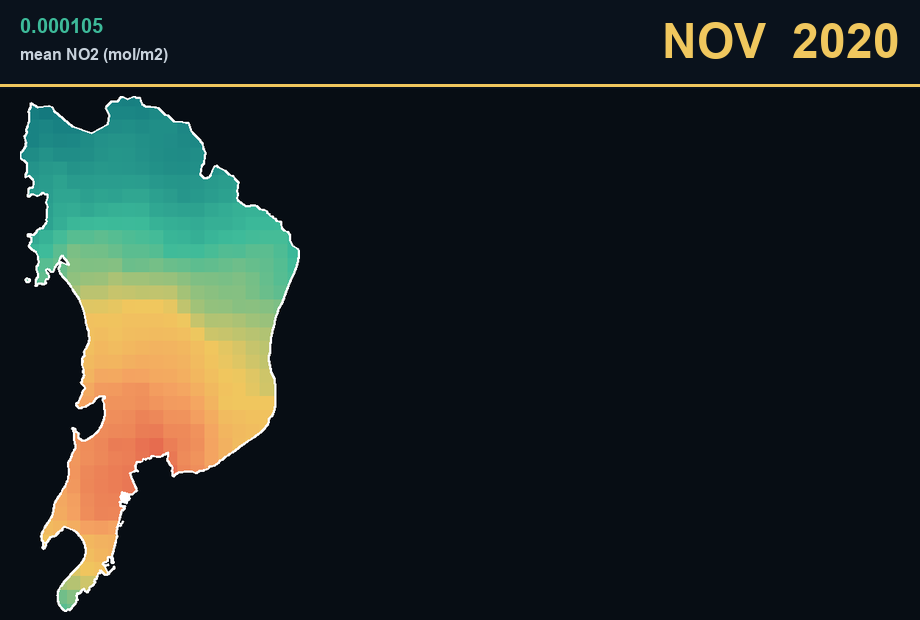
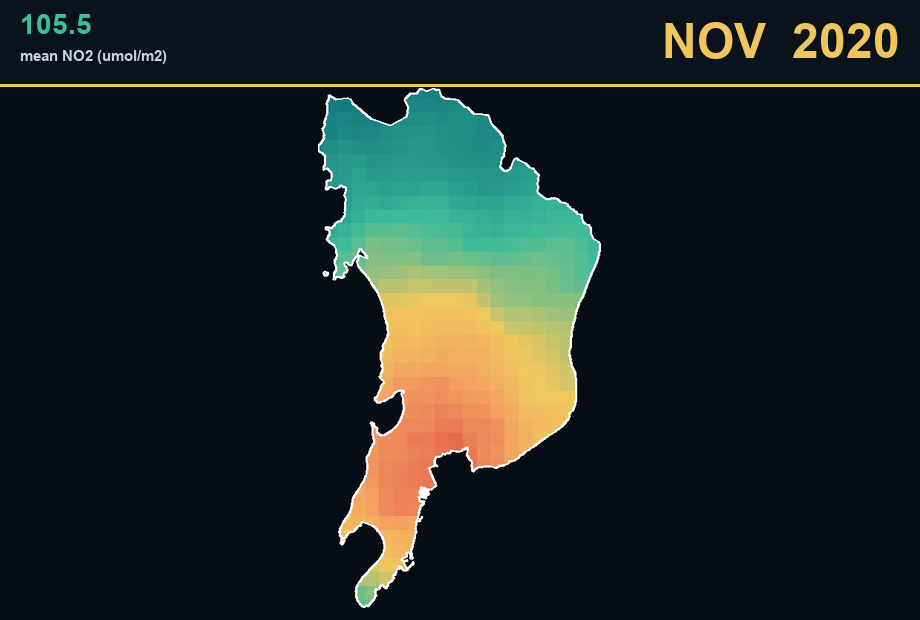
Center GIF map and show NO2 as readable umol/m2 on cards.

Changed region(s): [[0.0, 0.1226, 0.6696, 1.0], [0.0, 0.0, 0.1826, 0.1226]]

diff --git a/web/q2/index.html b/web/q2/index.html
@@ -551,12 +551,12 @@
       </p>
       <div class="stats">
         <div class="stat">
-          <strong id="stat-mean">0.000086</strong>
-          <span>city-wide mean NO₂ (mol/m²)</span>
+          <strong id="stat-mean">86.1</strong>
+          <span>city-wide mean NO₂ (µmol/m²)</span>
         </div>
         <div class="stat">
-          <strong id="stat-p75">0.000104</strong>
-          <span>highest-quartile threshold (P75)</span>
+          <strong id="stat-p75">104.2</strong>
+          <span>highest-quartile threshold P75 (µmol/m²)</span>
         </div>
         <div class="stat">
           <strong id="stat-pop65">7.32 lakh</strong>
@@ -579,7 +579,7 @@
           Coral marks the highest-NO₂ quartile (P75+). The white outline is the city boundary.
         </p>
         <div class="chips">
-          <span class="chip">Low → High NO₂ <span class="legend-bar"></span> <b>0–0.0002 mol/m²</b></span>
+          <span class="chip">Low → High NO₂ <span class="legend-bar"></span> <b>0–200 µmol/m²</b></span>
           <span class="chip hot"><i></i> Highest-NO₂ quartile (P75+)</span>
           <span class="chip line"><i></i> City boundary</span>
         </div>
@@ -590,8 +590,8 @@
             <div class="cap">
               <strong>Figure 1 · Annual mean tropospheric NO₂ (2020)</strong>
               <p>
-                Cloud-masked Sentinel-5P OFFL L3 column density (mol/m²).
-                Warmer colours = higher city-mean NO₂. White outline = Greater Mumbai ULB.
+                Cloud-masked Sentinel-5P OFFL L3 column density.
+                Shown in µmol/m² (1 µmol/m² = 0.000001 mol/m²). White outline = Greater Mumbai ULB.
               </p>
             </div>
           </article>
@@ -632,22 +632,22 @@
           <article>
             <h3>Winter</h3>
             <strong id="s-winter">—</strong>
-            <span>Dec–Feb mean</span>
+            <span>Dec–Feb mean (µmol/m²)</span>
           </article>
           <article>
             <h3>Pre-monsoon</h3>
             <strong id="s-pre">—</strong>
-            <span>Mar–May mean</span>
+            <span>Mar–May mean (µmol/m²)</span>
           </article>
           <article>
             <h3>Monsoon</h3>
             <strong id="s-mon">—</strong>
-            <span>Jun–Aug mean</span>
+            <span>Jun–Aug mean (µmol/m²)</span>
           </article>
           <article>
             <h3>Post-monsoon</h3>
             <strong id="s-post">—</strong>
-            <span>Sep–Nov mean</span>
+            <span>Sep–Nov mean (µmol/m²)</span>
           </article>
         </div>
 
@@ -663,14 +663,14 @@
         <div class="two">
           <article class="figure gif-frame">
             <img src="outputs/mumbai_2020_monthly_no2.gif" alt="Animated monthly NO2 maps for Greater Mumbai 2020">
-            <div class="cap">Figure 2 · Monthly GIF for 2020 (dynamic output). Fixed 0–0.0002 mol/m² scale.</div>
+            <div class="cap">Figure 2 · Monthly GIF for 2020 (dynamic output). Fixed 0–200 µmol/m² colour scale.</div>
           </article>
           <div>
             <div class="callout">
               <h3>Temporal result</h3>
               <p>
                 Means peak in December–February and fall from April through August.
-                December is highest (~0.000168 mol/m²); May is lowest (~0.000025 mol/m²).
+                December is highest (~168 µmol/m²); May is lowest (~25 µmol/m²).
               </p>
             </div>
             <div class="callout" style="margin-top:10px">
@@ -719,8 +719,8 @@
               <tr><th>Exposure summary</th><th>Value</th></tr>
             </thead>
             <tbody id="summary-table">
-              <tr><td>City-wide mean tropospheric NO₂</td><td>0.000086 mol/m²</td></tr>
-              <tr><td>Highest-quartile threshold (P75)</td><td>0.000104 mol/m²</td></tr>
+              <tr><td>City-wide mean tropospheric NO₂</td><td>86.1 µmol/m²</td></tr>
+              <tr><td>Highest-quartile threshold (P75)</td><td>104.2 µmol/m²</td></tr>
               <tr><td>Residents aged 65+ (city total)</td><td>7,31,666</td></tr>
               <tr><td>Residents aged 65+ in highest-NO₂ quartile</td><td>2,38,328</td></tr>
               <tr><td>Share of 65+ in highest-NO₂ quartile</td><td>32.57%</td></tr>
@@ -729,7 +729,7 @@
 
           <table>
             <thead>
-              <tr><th>Month</th><th>Mean NO₂</th><th>vs annual</th></tr>
+              <tr><th>Month</th><th>Mean NO₂ (µmol/m²)</th><th>vs annual</th></tr>
             </thead>
             <tbody id="month-table"></tbody>
           </table>
@@ -846,24 +846,26 @@
     const pre = avg([2, 3, 4]);
     const mon = avg([5, 6, 7]);
     const post = avg([8, 9, 10]);
-    const fmt = (v) => Number(v).toFixed(6);
+    // Show NO2 as µmol/m² so values are easy to read (×1,000,000 from mol/m²)
+    const toUmol = (v) => Number(v) * 1e6;
+    const fmtUmol = (v) => toUmol(v).toFixed(1);
 
-    document.getElementById("s-winter").textContent = fmt(winter);
-    document.getElementById("s-pre").textContent = fmt(pre);
-    document.getElementById("s-mon").textContent = fmt(mon);
-    document.getElementById("s-post").textContent = fmt(post);
+    document.getElementById("s-winter").textContent = fmtUmol(winter);
+    document.getElementById("s-pre").textContent = fmtUmol(pre);
+    document.getElementById("s-mon").textContent = fmtUmol(mon);
+    document.getElementById("s-post").textContent = fmtUmol(post);
 
     const dec = monthly[11][1];
     const may = monthly[4][1];
     document.getElementById("compare-line").innerHTML =
-      `December mean NO₂ is about <b>${(dec / may).toFixed(1)}×</b> the May mean under the same cloud mask and colour scale.`;
+      `December mean NO₂ (~${fmtUmol(dec)} µmol/m²) is about <b>${(dec / may).toFixed(1)}×</b> the May mean (~${fmtUmol(may)} µmol/m²) under the same cloud mask and colour scale.`;
 
     document.getElementById("month-bars").innerHTML = monthly.map(([label, v]) => {
       const h = Math.max(6, Math.round((v / maxM) * 100));
       let cls = "bar";
       if (v === maxM) cls += " peak";
       if (v === minM) cls += " low";
-      return `<div class="bar-wrap" title="${label}: ${fmt(v)} mol/m²">
+      return `<div class="bar-wrap" title="${label}: ${fmtUmol(v)} µmol/m²">
         <div class="${cls}" style="height:${h}%"></div>
         <div class="bar-label">${label}</div>
       </div>`;
@@ -874,7 +876,7 @@
       const sign = rel >= 0 ? "+" : "";
       return `<tr>
         <td><b>${label}</b></td>
-        <td>${fmt(v)}</td>
+        <td>${fmtUmol(v)}</td>
         <td>${sign}${rel.toFixed(0)}%</td>
       </tr>`;
     }).join("");
@@ -883,20 +885,21 @@
       .then((r) => r.ok ? r.json() : Promise.reject())
       .then((data) => {
         document.getElementById("stat-mean").textContent =
-          fmt(data.no2_city_mean_mol_m2);
+          fmtUmol(data.no2_city_mean_mol_m2);
         document.getElementById("stat-p75").textContent =
-          fmt(data.no2_p75_mol_m2);
+          fmtUmol(data.no2_p75_mol_m2);
         document.getElementById("stat-pop65").textContent =
           (Math.round(data.pop65_total) / 100000).toFixed(2) + " lakh";
         document.getElementById("stat-share").textContent =
           Number(data.share_pop65_in_highest_no2_quartile_percent).toFixed(1) + "%";
 
         document.getElementById("summary-table").innerHTML = `
-          <tr><td>City-wide mean tropospheric NO₂</td><td>${fmt(data.no2_city_mean_mol_m2)} mol/m²</td></tr>
-          <tr><td>Highest-quartile threshold (P75)</td><td>${fmt(data.no2_p75_mol_m2)} mol/m²</td></tr>
+          <tr><td>City-wide mean tropospheric NO₂</td><td>${fmtUmol(data.no2_city_mean_mol_m2)} µmol/m²</td></tr>
+          <tr><td>Highest-quartile threshold (P75)</td><td>${fmtUmol(data.no2_p75_mol_m2)} µmol/m²</td></tr>
           <tr><td>Residents aged 65+ (city total)</td><td>${Math.round(data.pop65_total).toLocaleString("en-IN")}</td></tr>
           <tr><td>Residents aged 65+ in highest-NO₂ quartile</td><td>${Math.round(data.pop65_in_highest_no2_quartile).toLocaleString("en-IN")}</td></tr>
           <tr><td>Share of 65+ in highest-NO₂ quartile</td><td>${Number(data.share_pop65_in_highest_no2_quartile_percent).toFixed(2)}%</td></tr>
+          <tr><td>Unit note</td><td>1 µmol/m² = 0.000001 mol/m² (same satellite column, easier numbers)</td></tr>
         `;
       })
       .catch(() => {});

diff --git a/web/q2/outputs/mumbai_2020_no2_timeslider.html b/web/q2/outputs/mumbai_2020_no2_timeslider.html
@@ -140,16 +140,17 @@
     <div class="badge">
       <span class="m" id="month">JAN</span>
       <span class="y">2020</span>
-      <span class="v" id="mean">1.21e-4</span>
-      <span class="s">mean NO2 (mol/m2)</span>
+      <span class="v" id="mean">121.2</span>
+      <span class="s">mean NO2 (umol/m2)</span>
     </div>
   </div>
-  <p class="legend">Low → High NO₂ <span class="legend-bar"></span> 0–0.0002 mol/m² · white line = city boundary</p>
+  <p class="legend">Low → High NO₂ <span class="legend-bar"></span> 0–200 µmol/m² · white line = city boundary</p>
   <script>
     const names = ["JAN","FEB","MAR","APR","MAY","JUN","JUL","AUG","SEP","OCT","NOV","DEC"];
+    // µmol/m² (= mol/m² × 1,000,000) — easier to read
     const means = [
-      0.000121, 0.000134, 0.000069, 0.000031, 0.000025, 0.000034,
-      0.000026, 0.000033, 0.000057, 0.000090, 0.000105, 0.000168
+      121.2, 134.5, 68.8, 31.2, 25.3, 33.8,
+      26.2, 33.0, 57.0, 90.3, 105.5, 168.0
     ];
     const slider = document.getElementById("slider");
     const frame = document.getElementById("frame");
@@ -160,7 +161,7 @@
       const m = String(slider.value).padStart(2, "0");
       frame.src = "monthly_frames/no2_2020_" + m + ".png";
       month.textContent = names[i];
-      mean.textContent = means[i].toFixed(6);
+      mean.textContent = means[i].toFixed(1);
     }
     slider.addEventListener("input", update);
     update();

diff --git a/question2/relabel_monthly_frames.py b/question2/relabel_monthly_frames.py
@@ -1,4 +1,4 @@
-"""Build wide GIF frames with month/year pinned to the top-RIGHT corner."""
+"""Build wide GIF frames: centered map + clear month label + readable NO2 units."""
 from pathlib import Path
 
 from PIL import Image, ImageDraw, ImageFont
@@ -9,7 +9,8 @@ MONTHS = [
     "JAN", "FEB", "MAR", "APR", "MAY", "JUN",
     "JUL", "AUG", "SEP", "OCT", "NOV", "DEC",
 ]
-MEANS = [
+# mol/m2 -> display as umol/m2 (* 1e6)
+MEANS_MOL = [
     0.00012122771002100347,
     0.0001344614113413094,
     6.880824049356434e-05,
@@ -24,7 +25,6 @@ MEANS = [
     0.0001679684995766481,
 ]
 
-# Wide canvas so the label sits at the card's top-right, not mid-frame
 CANVAS_W = 920
 CANVAS_H = 620
 BG = (7, 13, 20)
@@ -57,39 +57,40 @@ def draw_text_topleft(draw, x, y, text, font, fill):
 
 def label_frame(src: Path, month_idx: int) -> Image.Image:
     im = Image.open(src).convert("RGBA")
-
     canvas = Image.new("RGB", (CANVAS_W, CANVAS_H), BG)
     draw = ImageDraw.Draw(canvas)
 
-    # Top bar across the FULL width
     bar_h = 88
     draw.rectangle([0, 0, CANVAS_W, bar_h], fill=(10, 18, 28))
     draw.line([(0, bar_h - 3), (CANVAS_W, bar_h - 3)], fill=(240, 199, 94), width=3)
 
     month = MONTHS[month_idx]
-    year = "2020"
-    title = f"{month}  {year}"
-    mean_txt = f"{MEANS[month_idx]:.6f}"
+    title = f"{month}  2020"
+    mean_umol = MEANS_MOL[month_idx] * 1e6
+    mean_txt = f"{mean_umol:.1f}"
 
     font_title = get_font(48)
-    font_mean = get_font(20)
-    font_unit = get_font(16)
+    font_mean = get_font(28)
+    font_unit = get_font(15)
 
-    # Left: mean
-    draw_text_topleft(draw, 20, 18, mean_txt, font_mean, (61, 187, 154))
-    draw_text_topleft(draw, 20, 48, "mean NO2 (mol/m2)", font_unit, (200, 210, 220))
+    # Left: readable mean in umol/m2
+    draw_text_topleft(draw, 20, 14, mean_txt, font_mean, (61, 187, 154))
+    draw_text_topleft(draw, 20, 50, "mean NO2 (umol/m2)", font_unit, (200, 210, 220))
 
-    # RIGHT corner: month + year (pinned to canvas right edge)
+    # Top-right month/year
     tw, th, _ = text_size(draw, title, font_title)
-    title_x = CANVAS_W - 20 - tw
-    title_y = (bar_h - 6 - th) // 2
-    draw_text_topleft(draw, title_x, title_y, title, font_title, (240, 199, 94))
+    draw_text_topleft(
+        draw,
+        CANVAS_W - 20 - tw,
+        (bar_h - 6 - th) // 2,
+        title,
+        font_title,
+        (240, 199, 94),
+    )
 
-    # Map area below bar — fit map on the left/center of the wide panel
-    map_area_h = CANVAS_H - bar_h - 16
+    # Centered map below the bar
+    map_area_h = CANVAS_H - bar_h - 12
     map_area_w = CANVAS_W - 40
-
-    # scale map to fit height, keep aspect
     scale = min(map_area_w / im.width, map_area_h / im.height)
     new_w = max(1, int(im.width * scale))
     new_h = max(1, int(im.height * scale))
@@ -98,11 +99,9 @@ def label_frame(src: Path, month_idx: int) -> Image.Image:
     map_bg = Image.new("RGBA", (new_w, new_h), (*BG, 255))
     map_bg.alpha_composite(resized)
 
-    # place map toward left-center so right side stays clear under the title
-    paste_x = 20
-    paste_y = bar_h + (map_area_h - new_h) // 2 + 8
+    paste_x = (CANVAS_W - new_w) // 2
+    paste_y = bar_h + (map_area_h - new_h) // 2
     canvas.paste(map_bg.convert("RGB"), (paste_x, paste_y))
-
     return canvas
 
 
@@ -114,7 +113,7 @@ def main():
         out = FRAMES / f"labeled_{i:02d}.png"
         labeled.save(out)
         frame_paths.append(out)
-        print("Labeled", out.name)
+        print("Labeled", out.name, f"{MEANS_MOL[i-1]*1e6:.1f} umol/m2")
 
     frames = [Image.open(p).convert("RGB") for p in frame_paths]
     gif = OUT / "mumbai_2020_monthly_no2.gif"
@@ -125,7 +124,7 @@ def main():
         duration=800,
         loop=0,
     )
-    print("Saved", gif, frames[0].size)
+    print("Saved", gif)
 
 
 if __name__ == "__main__":
